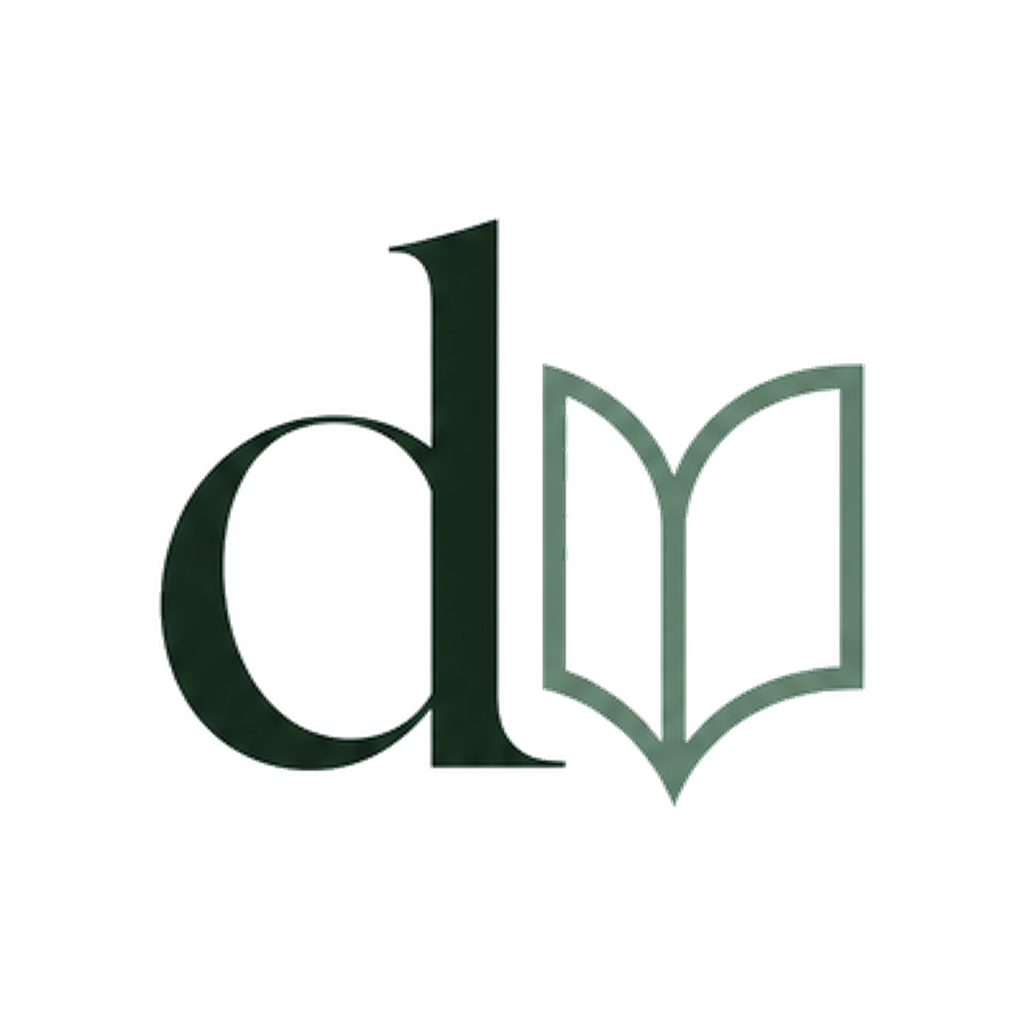
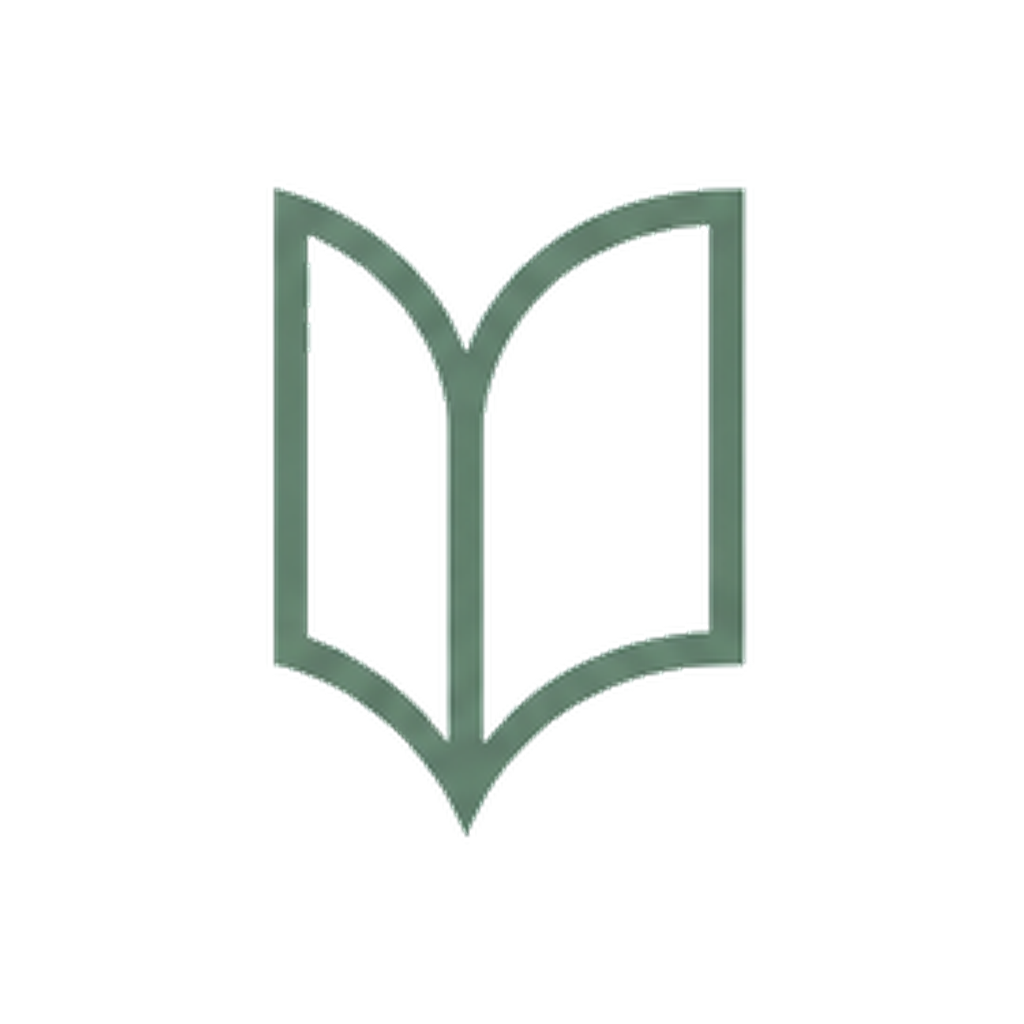
Fix book-only mark and complete brand asset set
Re-export read-mark without the trailing letter crop, regenerate app
icons/splash from it, restore SVG mark/wordmark, add mono tones for dark
reader chrome, use the hero wordmark on Library, and add Open Graph image.

Changed region(s): [[0.1562, 0.1562, 0.8438, 0.8125]]

diff --git a/apps/web/src/components/BrandLogo.tsx b/apps/web/src/components/BrandLogo.tsx
@@ -2,37 +2,47 @@ import { cn } from "@/lib/format";
 
 type BrandLogoProps = {
   variant?: "wordmark" | "mark";
+  /** color = original; ink = mono dark; white = mono light (dark UI) */
+  tone?: "color" | "ink" | "white";
   className?: string;
-  /** CSS height for the rendered asset */
   height?: number;
   priority?: boolean;
   alt?: string;
+  /** Prefer SVG for crisp header scaling; PNG for hero raster fidelity */
+  format?: "svg" | "png";
 };
 
-/**
- * Aspect based on the restored original raster wordmark (~823×354)
- * and square mark (1024×1024).
- */
 const ASPECT = {
   wordmark: 823 / 354,
   mark: 1,
 } as const;
 
+function brandSrc(
+  variant: "wordmark" | "mark",
+  tone: "color" | "ink" | "white",
+  format: "svg" | "png"
+) {
+  const base = variant === "wordmark" ? "read-wordmark" : "read-mark";
+  if (tone === "color") return `/brand/${base}.${format}`;
+  return `/brand/${base}-${tone}.${format === "svg" ? "svg" : "png"}`;
+}
+
 /**
- * Brand asset helper — uses the original designed PNG (not the Georgia SVG stand-in).
+ * Brand asset helper.
  * - wordmark: full "Read" + book (use alone — do not also render text "Read")
  * - mark: book-only icon for compact chrome / app icons
  */
 export function BrandLogo({
   variant = "wordmark",
+  tone = "color",
   className,
   height = variant === "wordmark" ? 32 : 40,
   priority = false,
   alt = "Read",
+  format = "svg",
 }: BrandLogoProps) {
   const width = Math.round(height * ASPECT[variant]);
-  const src =
-    variant === "wordmark" ? "/brand/read-wordmark.png" : "/brand/read-mark.png";
+  const src = brandSrc(variant, tone, format);
 
   return (
     // eslint-disable-next-line @next/next/no-img-element

diff --git a/apps/mobile/app/read/[bookId]/[chapterId].tsx b/apps/mobile/app/read/[bookId]/[chapterId].tsx
@@ -192,6 +192,7 @@ export default function ReaderScreen() {
   );
 
   const palette = readerThemes[theme];
+  const brandTone = theme === "ink" ? "white" : "color";
 
   if (loading) {
     return (
@@ -206,7 +207,7 @@ export default function ReaderScreen() {
     return (
       <SafeAreaView style={[styles.lockedWrap, { backgroundColor: palette.bg }]}>
         <Stack.Screen options={{ headerShown: false }} />
-        <BrandLogo variant="mark" height={52} style={{ tintColor: palette.fg, marginBottom: 8 }} />
+        <BrandLogo variant="mark" height={52} tone={brandTone} style={{ marginBottom: 8 }} />
         <Text style={[styles.lockedTitle, { color: palette.fg }]}>This chapter is locked</Text>
         <Text style={[styles.lockedBody, { color: palette.muted }]}>
           Chapter 1 is free. Unlock the full book with a mock purchase to keep reading.
@@ -239,7 +240,7 @@ export default function ReaderScreen() {
 
       <View style={[styles.bar, { borderBottomColor: withAlpha(palette.fg, 0.12) }]}>
         <Pressable onPress={leaveReader} accessibilityLabel="Back to book">
-          <BrandLogo variant="mark" height={26} style={{ tintColor: palette.fg }} />
+          <BrandLogo variant="mark" height={26} tone={brandTone} />
         </Pressable>
         <View style={styles.barControls}>
           <Pressable style={chip(palette.fg)} onPress={() => changeFontSize(-FONT_SIZE_STEP)}>

diff --git a/apps/web/src/app/page.tsx b/apps/web/src/app/page.tsx
@@ -1,5 +1,4 @@
 import { BookCard } from "@/components/BookCard";
-import { BrandLogo } from "@/components/BrandLogo";
 import { createServerApi } from "@/lib/api-server";
 
 export const dynamic = "force-dynamic";
@@ -13,8 +12,13 @@ export default async function HomePage() {
       <div className="pointer-events-none absolute -left-10 top-8 h-40 w-40 rounded-full bg-[rgba(63,111,92,0.15)] blur-3xl ambient-orb" />
       <section className="fade-up relative overflow-hidden pb-10 pt-4 sm:pb-14 sm:pt-8">
         <p className="text-xs uppercase tracking-[0.18em] text-[var(--sage)]">In-app reading</p>
-        <div className="mt-4">
-          <BrandLogo variant="wordmark" height={72} priority />
+        <div className="mt-5 overflow-hidden rounded-2xl">
+          {/* eslint-disable-next-line @next/next/no-img-element */}
+          <img
+            src="/brand/read-wordmark-hero.png"
+            alt="Read"
+            className="h-auto w-full max-w-xl object-cover object-center sm:max-w-2xl"
+          />
         </div>
         <p className="fade-up-delay mt-5 max-w-xl text-base leading-relaxed text-[var(--ink-soft)] sm:text-lg">
           A calm place for books — free titles open instantly, paid ones unlock after purchase.

diff --git a/apps/web/src/components/InAppReader.tsx b/apps/web/src/components/InAppReader.tsx
@@ -177,6 +177,7 @@ export function InAppReader({
   }, [data]);
 
   const palette = THEMES[theme];
+  const brandTone = theme === "ink" ? "white" : "color";
 
   async function buy() {
     try {
@@ -202,7 +203,7 @@ export function InAppReader({
     return (
       <div className="mx-auto flex min-h-[70vh] max-w-lg flex-col justify-center px-4 text-center">
         <div className="mx-auto">
-          <BrandLogo variant="mark" height={56} />
+          <BrandLogo variant="mark" height={56} tone={brandTone} />
         </div>
         <h1 className="mt-4 text-2xl font-semibold text-[var(--ink)]">This chapter is locked</h1>
         <p className="mt-3 text-[var(--ink-soft)]">
@@ -257,7 +258,7 @@ export function InAppReader({
       >
         <div className="mx-auto flex h-14 max-w-3xl items-center justify-between gap-3 px-4">
           <Link href={`/books/${bookId}`} className="flex items-center" aria-label="Back to book">
-            <BrandLogo variant="wordmark" height={24} />
+            <BrandLogo variant="wordmark" height={24} tone={brandTone} />
           </Link>
           <div className="flex items-center gap-2 text-sm">
             <button

diff --git a/apps/mobile/components/BrandLogo.tsx b/apps/mobile/components/BrandLogo.tsx
@@ -2,13 +2,22 @@ import { Image, type ImageStyle, type StyleProp } from "react-native";
 
 type BrandLogoProps = {
   variant?: "wordmark" | "mark";
+  tone?: "color" | "ink" | "white";
   height?: number;
   style?: StyleProp<ImageStyle>;
 };
 
 const SOURCES = {
-  wordmark: require("../assets/wordmark.png"),
-  mark: require("../assets/mark.png"),
+  wordmark: {
+    color: require("../assets/wordmark.png"),
+    ink: require("../assets/wordmark-ink.png"),
+    white: require("../assets/wordmark-white.png"),
+  },
+  mark: {
+    color: require("../assets/mark.png"),
+    ink: require("../assets/mark-ink.png"),
+    white: require("../assets/mark-white.png"),
+  },
 } as const;
 
 const ASPECT = {
@@ -18,13 +27,14 @@ const ASPECT = {
 
 export function BrandLogo({
   variant = "wordmark",
+  tone = "color",
   height = variant === "wordmark" ? 28 : 40,
   style,
 }: BrandLogoProps) {
   const width = Math.round(height * ASPECT[variant]);
   return (
     <Image
-      source={SOURCES[variant]}
+      source={SOURCES[variant][tone]}
       accessibilityLabel="Read"
       style={[{ width, height, resizeMode: "contain" }, style]}
     />

diff --git a/apps/web/src/app/layout.tsx b/apps/web/src/app/layout.tsx
@@ -26,6 +26,28 @@ export const metadata: Metadata = {
   title: "Read — Books in your browser",
   description:
     "Publish PDF and DOCX books, auto-split chapters, and read free or paid titles in a mobile-friendly in-app reader.",
+  metadataBase: new URL(process.env.NEXT_PUBLIC_APP_URL || "http://localhost:3000"),
+  openGraph: {
+    title: "Read — Books in your browser",
+    description:
+      "A calm place for books — free titles open instantly, paid ones unlock after purchase.",
+    images: [
+      {
+        url: "/brand/og-image.png",
+        width: 1200,
+        height: 630,
+        alt: "Read",
+      },
+    ],
+    type: "website",
+  },
+  twitter: {
+    card: "summary_large_image",
+    title: "Read — Books in your browser",
+    description:
+      "A calm place for books — free titles open instantly, paid ones unlock after purchase.",
+    images: ["/brand/og-image.png"],
+  },
 };
 
 export const viewport: Viewport = {

diff --git a/docs/PROJECT.md b/docs/PROJECT.md
@@ -320,19 +320,20 @@ API tiêu biểu:
 
 | Asset | Path | Dùng cho |
 |-------|------|----------|
-| **Original showcase** | `apps/web/public/brand/read-wordmark-hero.png` / `docs/assets/read-wordmark-original.png` | Bản gốc đẹp (có nền mist) — nguồn sự thật |
-| Wordmark PNG (transparent) | `apps/web/public/brand/read-wordmark.png` | Header, hero, reader — **dùng cái này trên UI** |
-| Mark PNG (transparent) | `apps/web/public/brand/read-mark.png` | Icon-only UI |
+| **Original showcase** | `apps/web/public/brand/read-wordmark-hero.png` | Hero Library + nguồn sự thật |
+| Wordmark PNG/SVG | `read-wordmark.png` / `.svg` | Header, reader chrome |
+| Mark PNG/SVG (book only) | `read-mark.png` / `.svg` | Login, favicon source, compact UI |
+| Mono ink / white | `read-*-ink.*`, `read-*-white.*` | Reader theme tối (không tintColor) |
 | App icon (mist bg) | `apps/web/src/app/icon.png`, `apple-icon.png` | Favicon / Apple touch |
+| OG / social | `apps/web/public/brand/og-image.png` | Open Graph + Twitter card |
 | Mobile icon/splash | `apps/mobile/assets/icon.png`, `adaptive-icon.png`, `splash.png` | Expo `app.json` |
-| Mobile UI | `apps/mobile/assets/mark.png`, `wordmark.png` | Library / login / reader |
-
-> SVG `read-*.svg` chỉ còn dự phòng; UI ưu tiên PNG từ bản logo gốc (serif swash R), không dùng bản Georgia generate lại.
+| Mobile UI | `mark.png`, `wordmark.png`, `*-ink.png`, `*-white.png` | Library / login / reader |
 
 **Quy ước UI**
 - **Wordmark** = chữ + sách → dùng **một mình**, không kèm text “Read”
-- **Mark** = chỉ icon sách → compact chrome, login accent, app icon
-- Component: `BrandLogo` (`apps/web/...`, `apps/mobile/components/BrandLogo.tsx`)
+- **Mark** = **chỉ icon sách** (không kèm chữ “d”) → compact chrome, login, app icon
+- `BrandLogo` hỗ trợ `tone`: `color` \| `ink` \| `white`
+- Hero Library dùng `read-wordmark-hero.png` (bản gốc có nền mist)
 
 ---
 
